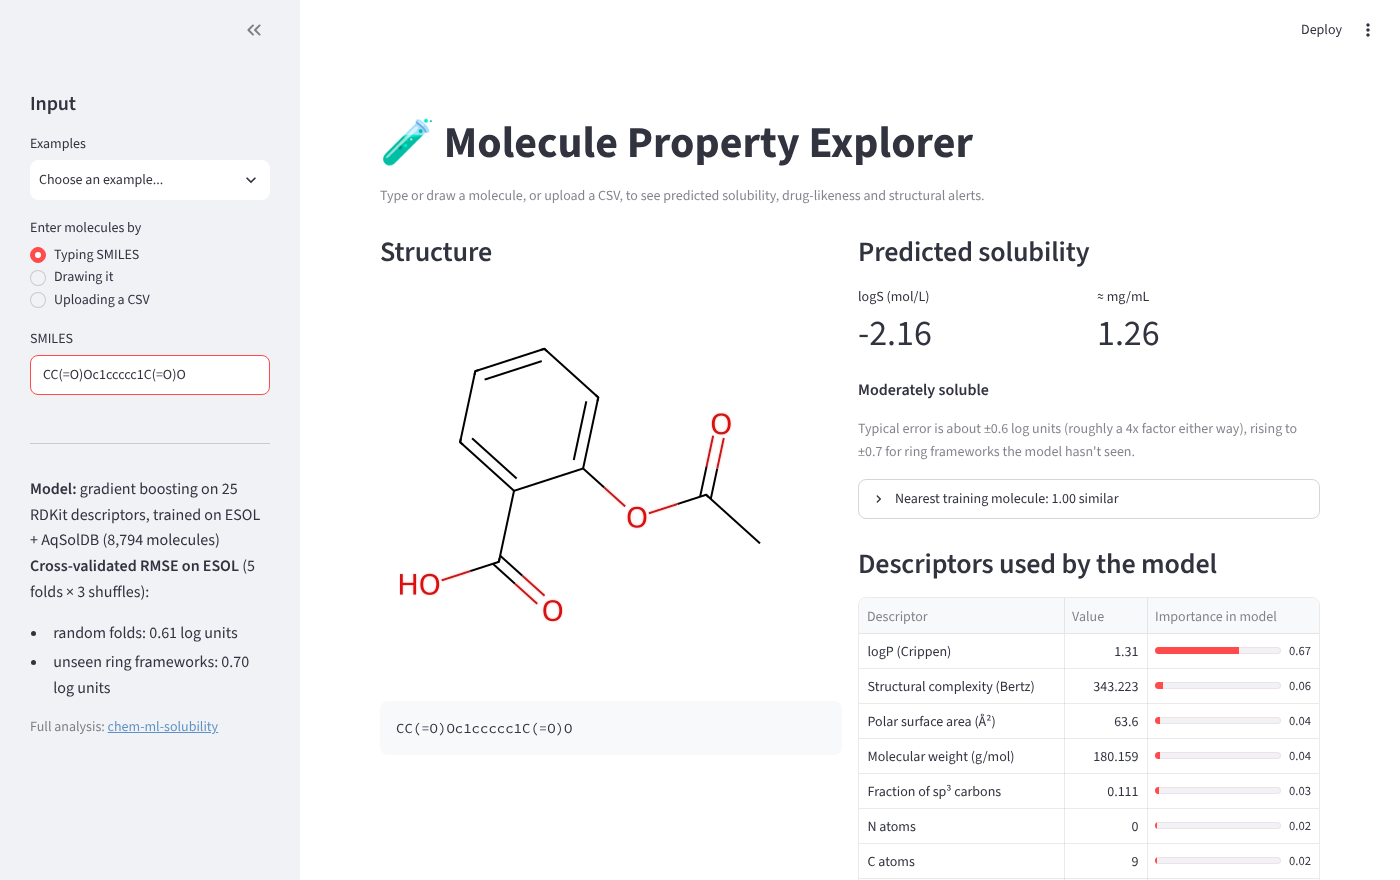
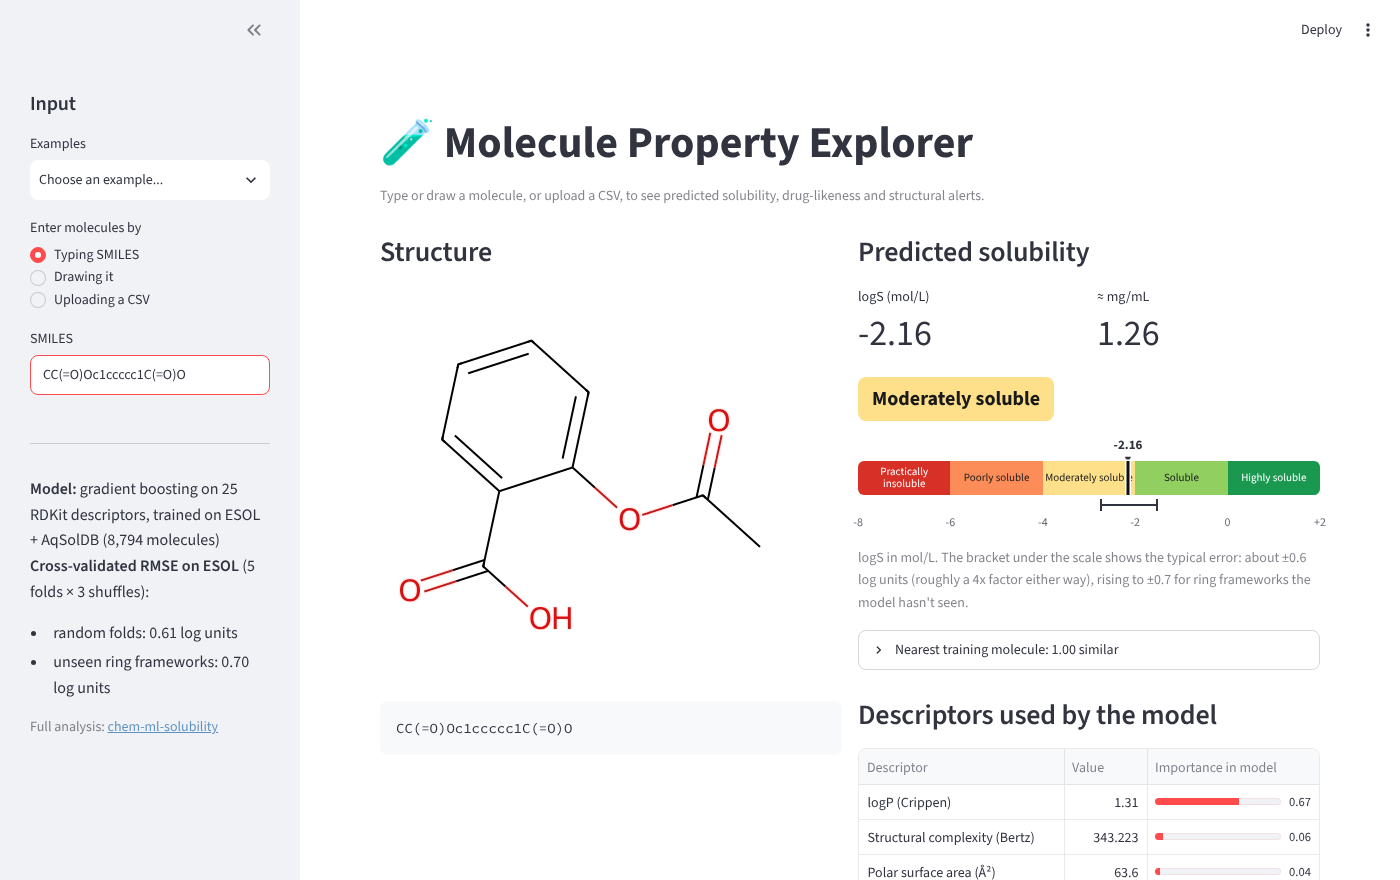
Show the solubility label as a coloured badge on a logS scale with the error range

diff --git a/app.py b/app.py
@@ -145,12 +145,12 @@ def solubility_section(mol, bundle):
         left, right = st.columns(2)
         left.metric("logS (mol/L)", f"{logS:.2f}")
         right.metric("≈ mg/mL", f"{cu.logS_to_mg_per_ml(logS, mol):.3g}")
-        st.markdown(f"**{cu.solubility_label(logS)}**")
-
         cv = bundle["cv"]
         rmse_random, rmse_scaffold = cv["random"]["RMSE"], cv["scaffold"]["RMSE"]
+        solubility_scale(logS, rmse_random)
         st.caption(
-            f"Typical error is about ±{rmse_random:.1f} log units (roughly a {10 ** rmse_random:.0f}x "
+            f"logS in mol/L. The bracket under the scale shows the typical error: about "
+            f"±{rmse_random:.1f} log units (roughly a {10 ** rmse_random:.0f}x "
             f"factor either way), rising to ±{rmse_scaffold:.1f} for ring frameworks the model hasn't seen."
         )
         if cu.has_phosphoryl(mol):
@@ -162,6 +162,66 @@ def solubility_section(mol, bundle):
             )
         domain_check(mol, bundle)
         descriptor_table(mol, bundle)
+
+
+SCALE_MIN, SCALE_MAX = -8, 2  # logS range drawn on the scale
+BAND_COLOURS = {  # red (insoluble) to green (soluble), with text colour that stays readable
+    "Practically insoluble": ("#d73027", "#ffffff"),
+    "Poorly soluble": ("#fc8d59", "#1a1a1a"),
+    "Moderately soluble": ("#fee08b", "#1a1a1a"),
+    "Soluble": ("#91cf60", "#1a1a1a"),
+    "Highly soluble": ("#1a9850", "#ffffff"),
+}
+
+
+def solubility_scale(logS, rmse):
+    """The solubility label as a coloured badge, and a scale marking the prediction and its typical error."""
+    def position(value):
+        return (min(max(value, SCALE_MIN), SCALE_MAX) - SCALE_MIN) / (SCALE_MAX - SCALE_MIN) * 100
+
+    label = cu.solubility_label(logS)
+    background, text = BAND_COLOURS[label]
+
+    uppers = [SCALE_MAX] + [lower for lower, _ in cu.SOLUBILITY_BANDS[:-1]]
+    segments = ""
+    for (lower, name), upper in zip(reversed(cu.SOLUBILITY_BANDS), reversed(uppers)):
+        lower = max(lower, SCALE_MIN)
+        seg_bg, seg_text = BAND_COLOURS[name]
+        segments += (
+            f'<div style="width:{position(upper) - position(lower)}%;background:{seg_bg};color:{seg_text};'
+            f'display:flex;align-items:center;justify-content:center;text-align:center;'
+            f'font-size:11px;line-height:1.1;padding:0 2px">{name}</div>'
+        )
+    ticks = "".join(
+        f'<span style="position:absolute;left:{position(v)}%;transform:translateX(-50%)">'
+        f'{f"{v:+d}" if v else "0"}</span>'
+        for v in range(SCALE_MIN, SCALE_MAX + 1, 2)
+    )
+    low, high = position(logS - rmse), position(logS + rmse)
+
+    marker = position(logS)
+    st.html(f"""
+    <div style="font-family:inherit;color:inherit">
+      <span style="display:inline-block;background:{background};color:{text};font-weight:700;
+                   font-size:1.25rem;padding:6px 14px;border-radius:8px">{label}</span>
+      <div style="position:relative;height:22px;margin-top:14px">
+        <div style="position:absolute;left:{marker}%;transform:translateX(-50%);font-size:13px;
+             font-weight:700;white-space:nowrap">{logS:.2f}<br>
+          <span style="display:block;text-align:center;line-height:0.6">▼</span></div>
+      </div>
+      <div style="position:relative;margin-top:4px">
+        <div style="display:flex;height:34px;border-radius:6px;overflow:hidden">{segments}</div>
+        <div style="position:absolute;top:0;left:{marker}%;transform:translateX(-50%);width:3px;
+             height:34px;background:#111;box-shadow:0 0 0 1.5px #fff"></div>
+      </div>
+      <div style="position:relative;height:12px;margin-top:4px">
+        <div style="position:absolute;top:5px;left:{low}%;width:{high - low}%;height:2px;background:currentColor"></div>
+        <div style="position:absolute;top:0;left:{low}%;width:2px;height:12px;background:currentColor"></div>
+        <div style="position:absolute;top:0;left:{high}%;width:2px;height:12px;background:currentColor"></div>
+      </div>
+      <div style="position:relative;height:18px;font-size:12px;opacity:0.75;margin-top:2px">{ticks}</div>
+    </div>
+    """)
 
 
 def domain_check(mol, bundle):

diff --git a/chem_utils.py b/chem_utils.py
@@ -210,17 +210,18 @@ def predict_logS(mol, bundle):
     return float(bundle["model"].predict(feature_vector(mol))[0])
 
 
+# Rough plain-English bands of logS, for readability only: (lower bound, label), highest first.
+SOLUBILITY_BANDS = [
+    (0, "Highly soluble"),
+    (-2, "Soluble"),
+    (-4, "Moderately soluble"),
+    (-6, "Poorly soluble"),
+    (float("-inf"), "Practically insoluble"),
+]
+
+
 def solubility_label(logS):
-    """Rough plain-English band, for readability only."""
-    if logS >= 0:
-        return "Highly soluble"
-    if logS >= -2:
-        return "Soluble"
-    if logS >= -4:
-        return "Moderately soluble"
-    if logS >= -6:
-        return "Poorly soluble"
-    return "Practically insoluble"
+    return next(label for lower, label in SOLUBILITY_BANDS if logS >= lower)
 
 
 def logS_to_mg_per_ml(logS, mol):

diff --git a/README.md b/README.md
@@ -12,7 +12,7 @@ It builds on my earlier analysis project, [chem-ml-solubility](https://github.co
 
 ## Features
 
-- **Predicted solubility** in logS and mg/mL, with the model's typical error
+- **Predicted solubility** in logS and mg/mL, shown on a colour scale from insoluble to highly soluble with the model's typical error
 - **Why this prediction?** A heatmap of each atom's contribution to logP, the model's most important descriptor
 - **Applicability-domain warning** when a molecule is unlike the training data, with the nearest training molecule and its measured value
 - **Drug-likeness:** QED score and Lipinski's rule of five
